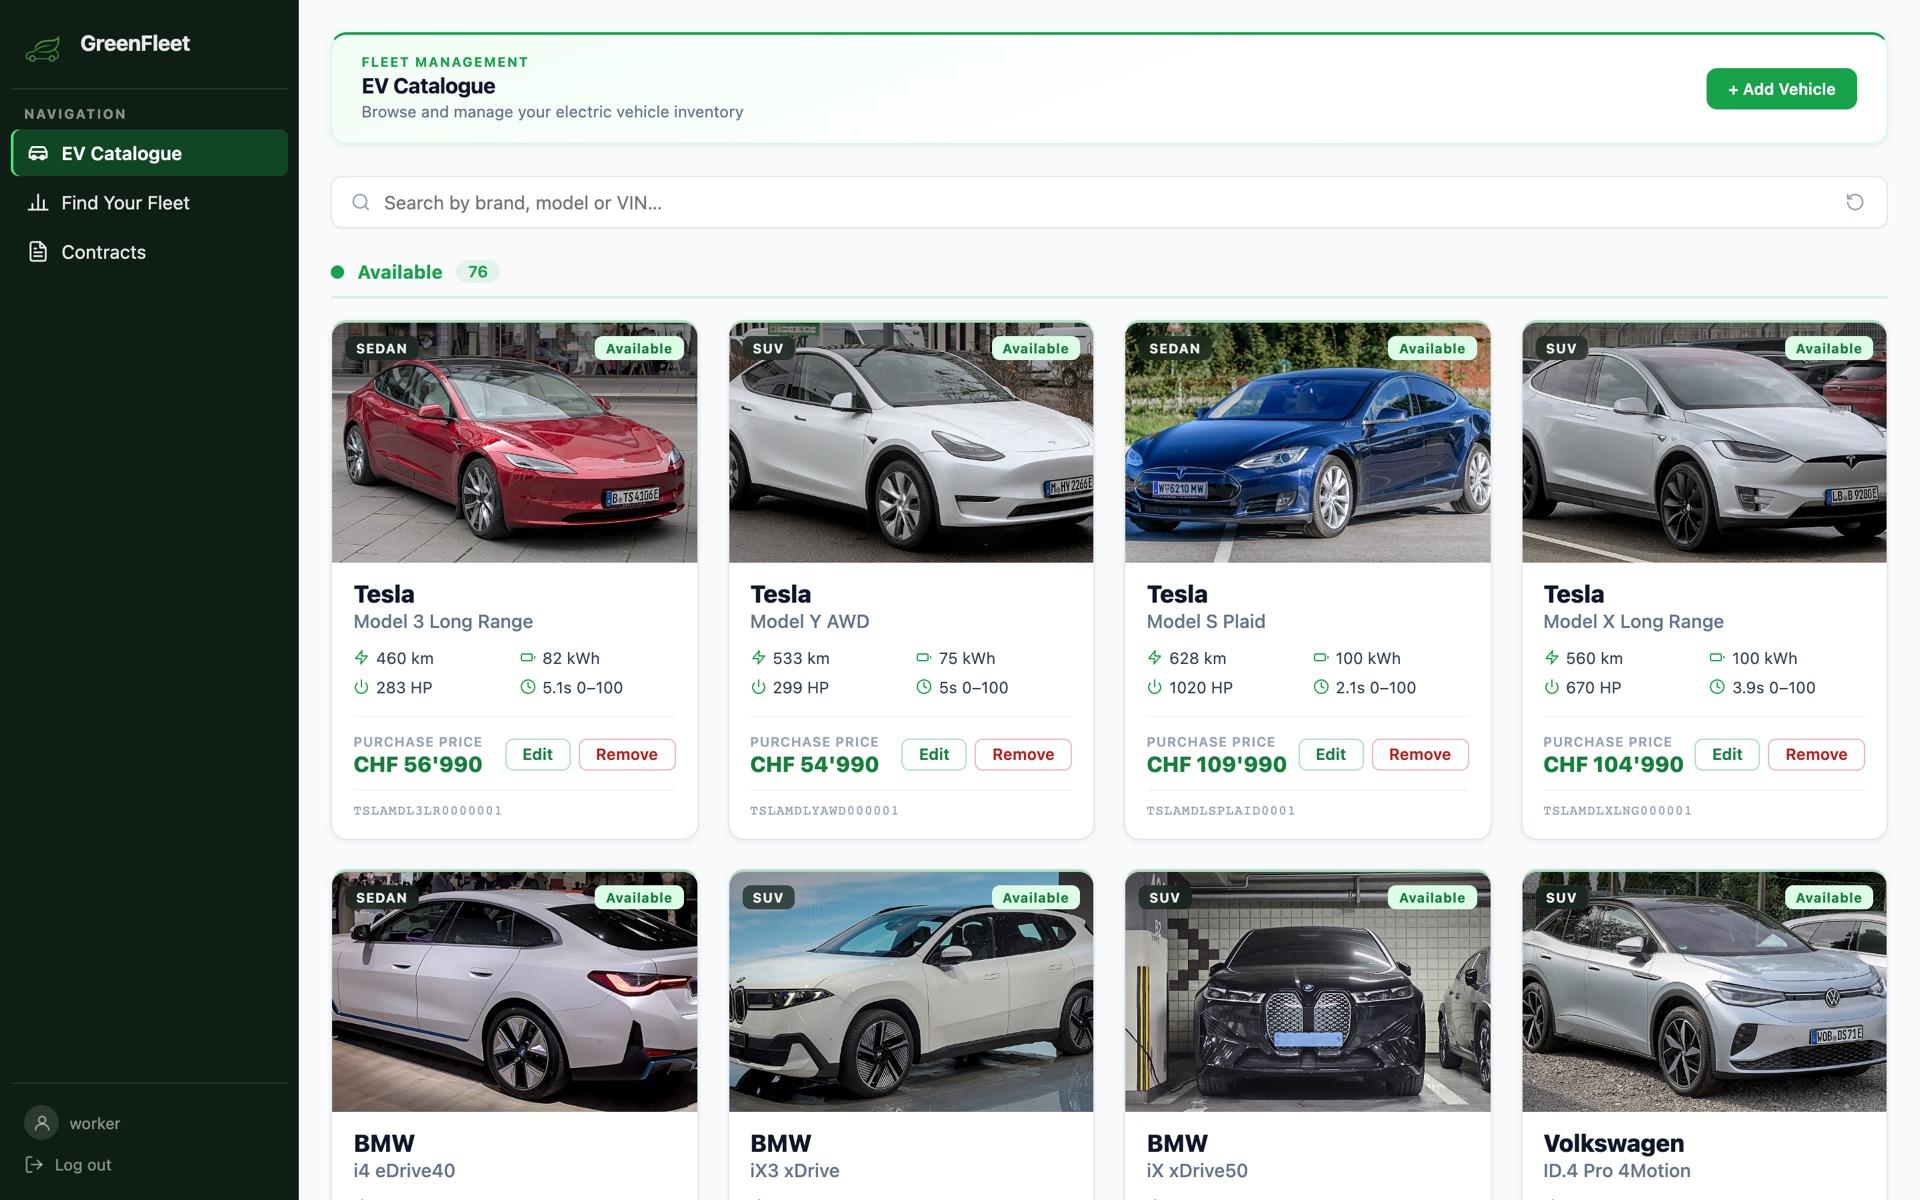
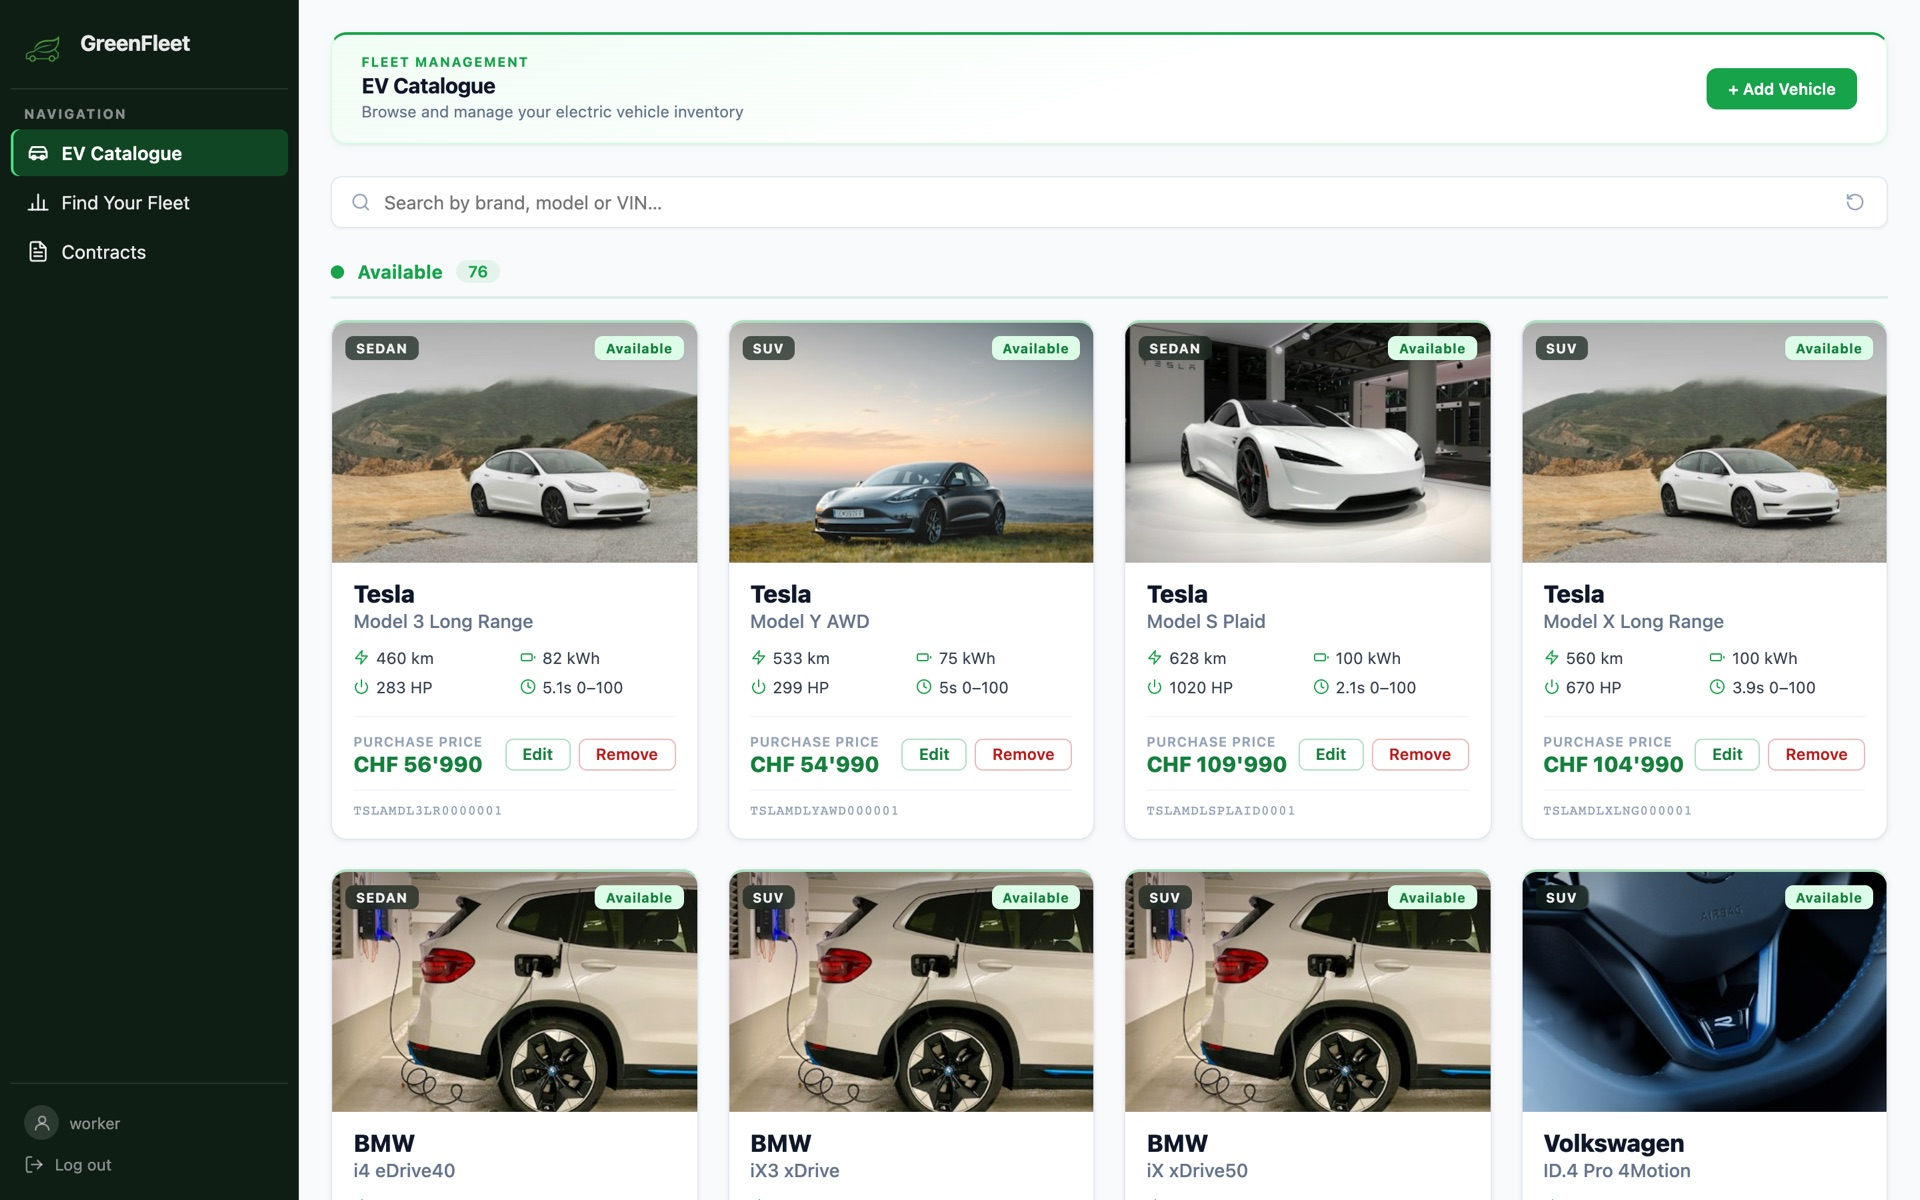
docs: use Unsplash vehicle photos in screenshots

Changed region(s): [[0.1562, 0.2467, 1.0, 0.4933], [0.1562, 0.7092, 1.0, 0.925]]

diff --git a/docs/image-credits.md b/docs/image-credits.md
@@ -1,29 +1,25 @@
 # Image credits
 
-The vehicle photos in the screenshots come from [Wikimedia Commons](https://commons.wikimedia.org/). In the running application they are loaded from Unsplash. The photos are used unchanged under the licenses below.
+The vehicle photos in the application and in the screenshots are loaded at runtime from the [Unsplash API](https://unsplash.com/developers), searched by brand and model, and used under the [Unsplash License](https://unsplash.com/license).
 
-| Vehicle | File | Author | License |
-|---|---|---|---|
-| Audi Q4 e-tron | [Audi Q4 Sportback e-tron IAA 2021 1X7A0159.jpg](https://commons.wikimedia.org/wiki/File:Audi_Q4_Sportback_e-tron_IAA_2021_1X7A0159.jpg) | Alexander Migl | CC BY-SA 4.0 |
-| Audi e-tron 55 | [Audi e-tron 55 quattro IAA 2019 JM 0496.jpg](https://commons.wikimedia.org/wiki/File:Audi_e-tron_55_quattro_IAA_2019_JM_0496.jpg) | Johannes Maximilian | CC BY-SA 4.0 |
-| BMW i4 | [BMW i4 IAA 2021 1X7A0307.jpg](https://commons.wikimedia.org/wiki/File:BMW_i4_IAA_2021_1X7A0307.jpg) | Alexander Migl | CC BY-SA 4.0 |
-| BMW iX xDrive50 | [BMW I20 iX xDrive50 Sport Black Sapphire Metallic (24).jpg](https://commons.wikimedia.org/wiki/File:BMW_I20_iX_xDrive50_Sport_Black_Sapphire_Metallic_(24).jpg) | Damian B Oh | CC BY-SA 4.0 |
-| BMW iX3 | [BMW iX3 NA5 IAA 2025 DSC 1684.jpg](https://commons.wikimedia.org/wiki/File:BMW_iX3_NA5_IAA_2025_DSC_1684.jpg) | Alexander-93 | CC BY-SA 4.0 |
-| Hyundai IONIQ 5 | [Hyundai Ioniq 5 IAA 2021 1X7A0189.jpg](https://commons.wikimedia.org/wiki/File:Hyundai_Ioniq_5_IAA_2021_1X7A0189.jpg) | Alexander Migl | CC BY-SA 4.0 |
-| Hyundai IONIQ 6 | [Hyundai Ioniq 6 1X7A7258.jpg](https://commons.wikimedia.org/wiki/File:Hyundai_Ioniq_6_1X7A7258.jpg) | Alexander-93 | CC BY-SA 4.0 |
-| Kia EV6 | [Kia EV6 GT IMG 8171.jpg](https://commons.wikimedia.org/wiki/File:Kia_EV6_GT_IMG_8171.jpg) | Alexander-93 | CC BY-SA 4.0 |
-| Mercedes EQC | [Mercedes EQC, Rendsburg (P1100578).jpg](https://commons.wikimedia.org/wiki/File:Mercedes_EQC,_Rendsburg_(P1100578).jpg) | Matti Blume | CC BY-SA 4.0 |
-| Mercedes EQS | [Mercedes-Benz Vision EQS at IAA 2019 IMG 0753.jpg](https://commons.wikimedia.org/wiki/File:Mercedes-Benz_Vision_EQS_at_IAA_2019_IMG_0753.jpg) | Alexander Migl | CC BY-SA 4.0 |
-| Polestar 2 | [Polestar 2, GIMS 2019, Le Grand-Saconnex (GIMS0552).jpg](https://commons.wikimedia.org/wiki/File:Polestar_2,_GIMS_2019,_Le_Grand-Saconnex_(GIMS0552).jpg) | Matti Blume | CC BY-SA 4.0 |
-| Porsche Taycan | [Porsche Taycan Sport Turismo GTS 1X7A0416.jpg](https://commons.wikimedia.org/wiki/File:Porsche_Taycan_Sport_Turismo_GTS_1X7A0416.jpg) | Alexander Migl | CC BY-SA 4.0 |
-| Renault Zoe | [2018 Renault ZOE.jpg](https://commons.wikimedia.org/wiki/File:2018_Renault_ZOE.jpg) | Vauxford | CC BY-SA 4.0 |
-| Tesla Model 3 | [Tesla Model 3 (2023) Autofrühling Ulm IMG 9282.jpg](https://commons.wikimedia.org/wiki/File:Tesla_Model_3_(2023)_Autofr%C3%BChling_Ulm_IMG_9282.jpg) | Alexander-93 | CC BY-SA 4.0 |
-| Tesla Model S | [20180630 Tesla Model S 70D 2015 midnight blue left front.jpg](https://commons.wikimedia.org/wiki/File:20180630_Tesla_Model_S_70D_2015_midnight_blue_left_front.jpg) | Granada | CC BY-SA 4.0 |
-| Tesla Model X | [Tesla Model X 100D 1X7A6736.jpg](https://commons.wikimedia.org/wiki/File:Tesla_Model_X_100D_1X7A6736.jpg) | Alexander Migl | CC BY-SA 4.0 |
-| Tesla Model Y | [Tesla Model Y 1X7A6211.jpg](https://commons.wikimedia.org/wiki/File:Tesla_Model_Y_1X7A6211.jpg) | Alexander Migl | CC BY-SA 4.0 |
-| Volkswagen ID.3 | [Volkswagen ID.3 Neo IMG 7255.jpg](https://commons.wikimedia.org/wiki/File:Volkswagen_ID.3_Neo_IMG_7255.jpg) | Alexander Migl | CC BY-SA 4.0 |
-| Volkswagen ID.4 | [Volkswagen ID.5 GTX 1X7A0318.jpg](https://commons.wikimedia.org/wiki/File:Volkswagen_ID.5_GTX_1X7A0318.jpg) | Alexander Migl | CC BY-SA 4.0 |
-| Volvo XC40 | [Volvo XC40 Recharge Facelift IMG 8127.jpg](https://commons.wikimedia.org/wiki/File:Volvo_XC40_Recharge_Facelift_IMG_8127.jpg) | Alexander-93 | CC BY-SA 4.0 |
+| Photo | Photographer |
+|---|---|
+| [Photo](https://unsplash.com/photos/a-close-up-of-a-red-car-with-rain-drops-on-it-j5vLtU39UoY?utm_source=greenfleet&utm_medium=referral) | [Aaron Doucett](https://unsplash.com/@adoucett?utm_source=greenfleet&utm_medium=referral) |
+| [Photo](https://unsplash.com/photos/a-car-is-parked-on-a-cobblestone-street-at-night-jmntKia2Ank?utm_source=greenfleet&utm_medium=referral) | [Alexis AMZ DA CRUZ](https://unsplash.com/@alexisamz?utm_source=greenfleet&utm_medium=referral) |
+| [Photo](https://unsplash.com/photos/black-bmw-coupe-on-road-during-daytime-vW55Kb9yQQs?utm_source=greenfleet&utm_medium=referral) | [Ayman Hallak](https://unsplash.com/@aymanshoots?utm_source=greenfleet&utm_medium=referral) |
+| [Photo](https://unsplash.com/photos/white-sedan-parked-beside-mountain-during-daytime-AkgALppFIwo?utm_source=greenfleet&utm_medium=referral) | [Charlie Deets](https://unsplash.com/@charliedeets?utm_source=greenfleet&utm_medium=referral) |
+| [Photo](https://unsplash.com/photos/white-volkswagen-id3-7Ydt79c2MyA?utm_source=greenfleet&utm_medium=referral) | [David von Diemar](https://unsplash.com/@davidvondiemar?utm_source=greenfleet&utm_medium=referral) |
+| [Photo](https://unsplash.com/photos/a-car-dashboard-with-a-cell-phone-in-the-center-NvP0iIzVqyI?utm_source=greenfleet&utm_medium=referral) | [Dekler Ph](https://unsplash.com/@deklerph?utm_source=greenfleet&utm_medium=referral) |
+| [Photo](https://unsplash.com/photos/an-electric-car-plugged-in-to-a-charging-station-mfqj3ZSs_h0?utm_source=greenfleet&utm_medium=referral) | [Eren Goldman](https://unsplash.com/@erengoldman?utm_source=greenfleet&utm_medium=referral) |
+| [Photo](https://unsplash.com/photos/the-volkswagen-steering-wheel-is-shown-up-close-2UHTSyo42Cg?utm_source=greenfleet&utm_medium=referral) | [Francis Nie](https://unsplash.com/@francis_nie?utm_source=greenfleet&utm_medium=referral) |
+| [Photo](https://unsplash.com/photos/a-white-car-parked-on-top-of-a-sandy-beach-g0dBVbXOs_s?utm_source=greenfleet&utm_medium=referral) | [Hyundai Motor Group](https://unsplash.com/@hyundaimotorgroup?utm_source=greenfleet&utm_medium=referral) |
+| [Photo](https://unsplash.com/photos/a-red-car-driving-down-a-street-next-to-trees-jdjzmbw4GPg?utm_source=greenfleet&utm_medium=referral) | [Hyundai Motor Group](https://unsplash.com/@hyundaimotorgroup?utm_source=greenfleet&utm_medium=referral) |
+| [Photo](https://unsplash.com/photos/silver-car-in-a-garage-j27SKDa-vBg?utm_source=greenfleet&utm_medium=referral) | [Kenny Leys](https://unsplash.com/@kennyleys?utm_source=greenfleet&utm_medium=referral) |
+| [Photo](https://unsplash.com/photos/car-front-grille-and-headlights-9pW_u2wynx0?utm_source=greenfleet&utm_medium=referral) | [Lucho Renolfi](https://unsplash.com/@luchoraw?utm_source=greenfleet&utm_medium=referral) |
+| [Photo](https://unsplash.com/photos/a-close-up-of-the-front-grill-of-a-yellow-sports-car-4ohCZfaizmo?utm_source=greenfleet&utm_medium=referral) | [Marcel Hoberg](https://unsplash.com/@marcelhoberg?utm_source=greenfleet&utm_medium=referral) |
+| [Photo](https://unsplash.com/photos/gray-vehicle-park-on-grass-DiJR_M1Mv_A?utm_source=greenfleet&utm_medium=referral) | [Martin Katler](https://unsplash.com/@martinkatler?utm_source=greenfleet&utm_medium=referral) |
+| [Photo](https://unsplash.com/photos/graphical-user-interface-website-OQN7PRVT9fI?utm_source=greenfleet&utm_medium=referral) | [Osarugue Igbinoba](https://unsplash.com/@osarugue?utm_source=greenfleet&utm_medium=referral) |
+| [Photo](https://unsplash.com/photos/white-lamborghini-aventador-parked-in-building-7_OQMgoGzDw?utm_source=greenfleet&utm_medium=referral) | [Tesla Fans Schweiz](https://unsplash.com/@teslafansch?utm_source=greenfleet&utm_medium=referral) |
 
 ---
 

diff --git a/README.md b/README.md
@@ -43,7 +43,7 @@ The project followed a domain-driven process: product vision, domain stories, pe
 | **Vehicle catalogue (employee view)** | **Fleet contracts (employee view)** |
 | ![Vehicle catalogue](docs/images/vehicle-catalogue.jpg) | ![Fleet contracts](docs/images/fleet-contracts.jpg) |
 
-<sub>Vehicle photos: Wikimedia Commons, see [image credits](docs/image-credits.md).</sub>
+<sub>Vehicle photos are loaded from [Unsplash](https://unsplash.com), see [image credits](docs/image-credits.md).</sub>
 
 ## My contribution
 
